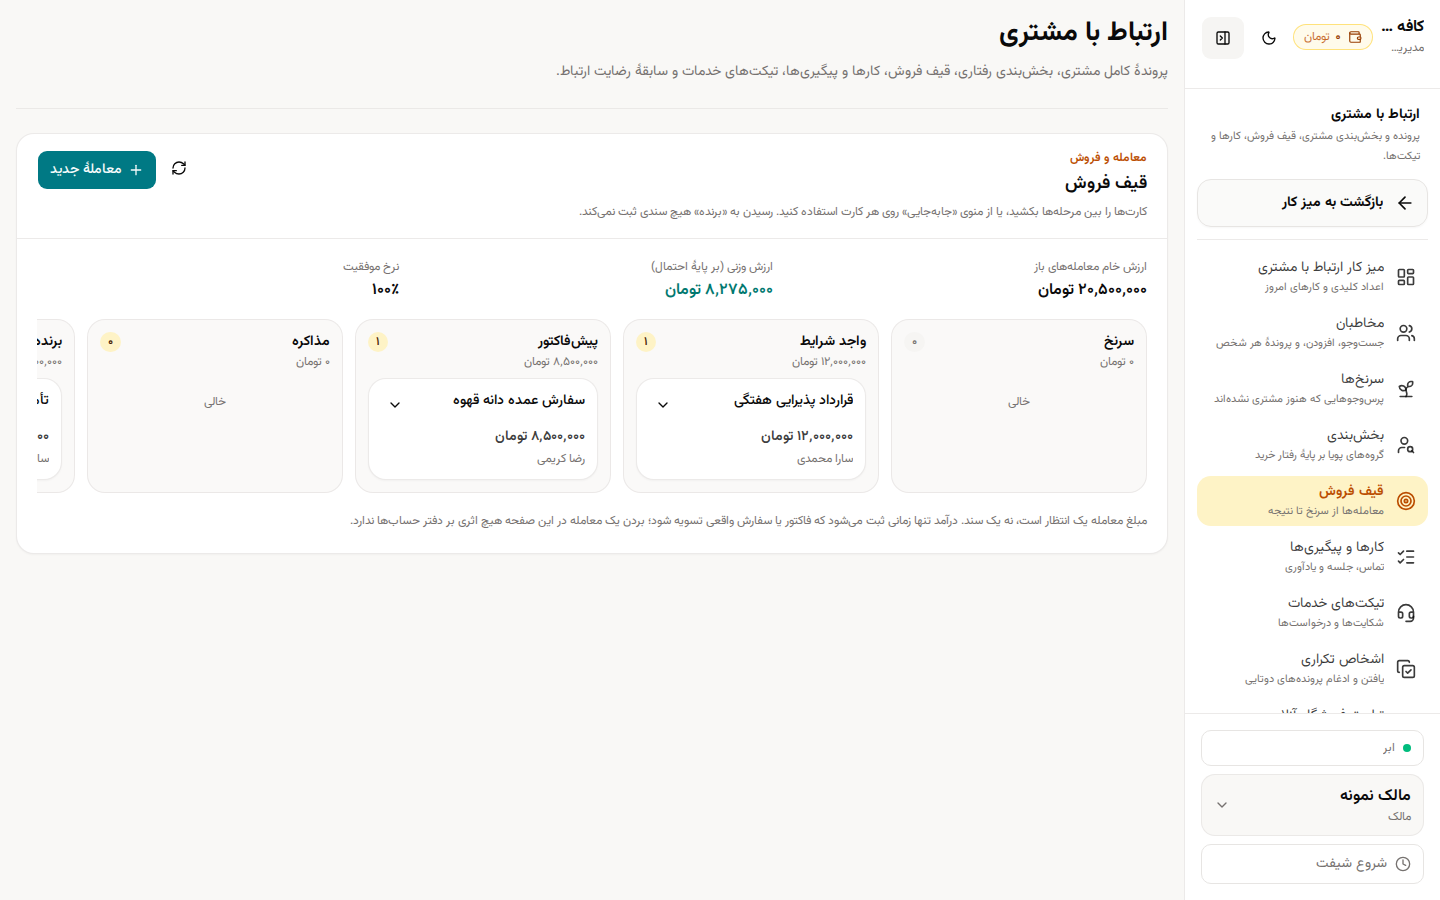
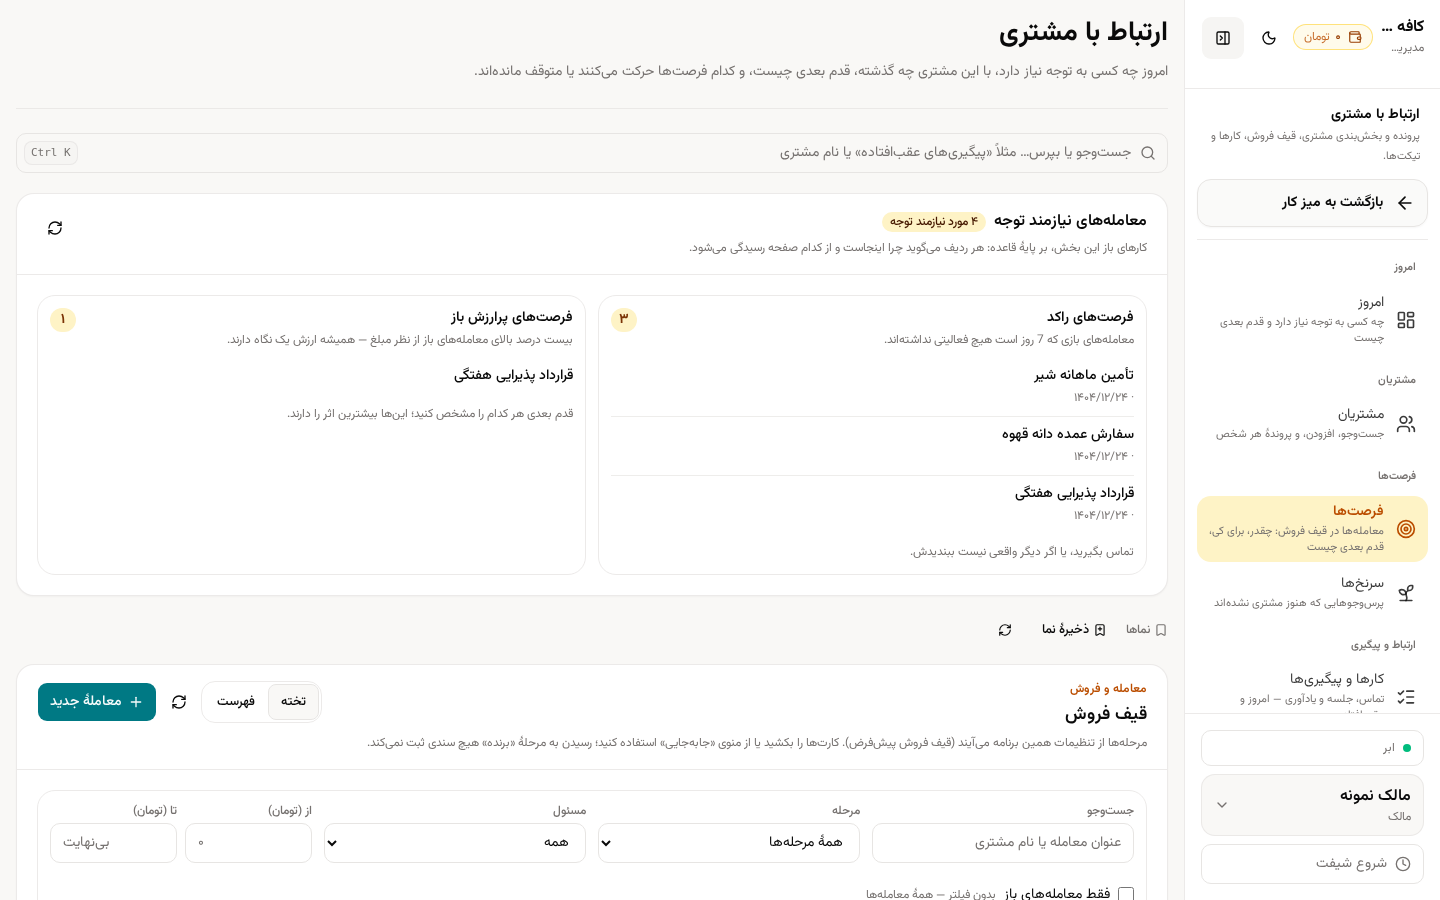
Visual baselines: approve the CRM redesign's new look
The visual check has been red on this branch since the CRM redesign landed, on
`crm-overview` and `crm-deals` and nothing else — twelve other screens, both
apps, matched to the pixel in the same run. That is the shape of an intended
design change rather than an environment problem, and the diff images say which
change it is: the frames stacked an old shell (the pre-command-field header, the
KPI-only overview) against the new one (the attention feed, the deals card with
its queue, the board/list toggle, the filter row).

Both baselines were recorded from this branch's own production build, against
the seeded visual fixture, with Chromium 141 — the major CI pins, obtained from
`@sparticuz/chromium@141.0.0` because this sandbox cannot reach Playwright's CDN.
The harness's own version check is what makes that legitimate rather than a
guess. Recording was scoped to the two failing screens with a temporary
`VISUAL_ONLY` filter (reverted, not committed); the full suite then ran twice in
compare mode and reported 14/14 both times.

`docs/design/visual-regression.md` gains the sandbox recipe, since the harness
comment referred to a baseline recorded this way without saying how, and the
next person to hit a red visual run on a branch with a real design change will
need exactly that.

Approved as a design change, not re-recorded to clear a red run: the two images
are in this commit so they can be read side by side.

diff --git a/docs/design/visual-regression.md b/docs/design/visual-regression.md
@@ -19,6 +19,33 @@ npm run test:visual
 It also runs on every pull request (`.github/workflows/test.yml`, job
 `visual-regression`) and is one of the jobs the `required` status check fans in.
 
+### Running it from a sandbox that cannot reach Playwright's CDN
+
+CI installs the browser pinned by `playwright@1.56.0` — Chromium 141. A sandbox
+whose egress blocks `cdn.playwright.dev` and
+`playwright.download.prss.microsoft.com` cannot do that, and pointing the harness
+at *whatever* Chromium is lying around is not an option: it refuses a mismatched
+major on purpose, because text rasterises differently between majors (that was
+the first all-red CI run). The recipe that works is a **matching** build from an
+npm package:
+
+```bash
+npm i --no-save --no-package-lock @sparticuz/chromium@141.0.0
+# extract the browser and the shared libraries it links against
+node -e 'import("@sparticuz/chromium").then(async (m) => console.log(await m.default.executablePath()))'
+node -e 'const {brotliDecompressSync}=require("node:zlib");const {readFileSync,writeFileSync}=require("node:fs");writeFileSync("/tmp/al2023.tar",brotliDecompressSync(readFileSync("node_modules/@sparticuz/chromium/bin/al2023.tar.br")))'
+mkdir -p /tmp/chromium-libs && tar -xf /tmp/al2023.tar -C /tmp/chromium-libs
+LD_LIBRARY_PATH=/tmp/chromium-libs/lib VISUAL_CHROMIUM_PATH=/tmp/chromium npm run test:visual
+```
+
+That build calls itself `141.0.7390.0` (the package strips the last version
+component), which satisfies the major check. What it does **not** change is
+anything else on this page: seed the fixture, build for production, and serve the
+seeded database — the two CRM baselines re-recorded through this recipe came out
+at 2.9% and 3.3% against the old ones for exactly the reason the diff images
+showed, and the other twelve screens matched to the pixel, which is the evidence
+that the environment was not the variable.
+
 ## What is covered
 
 | Baseline | App | What it establishes |
